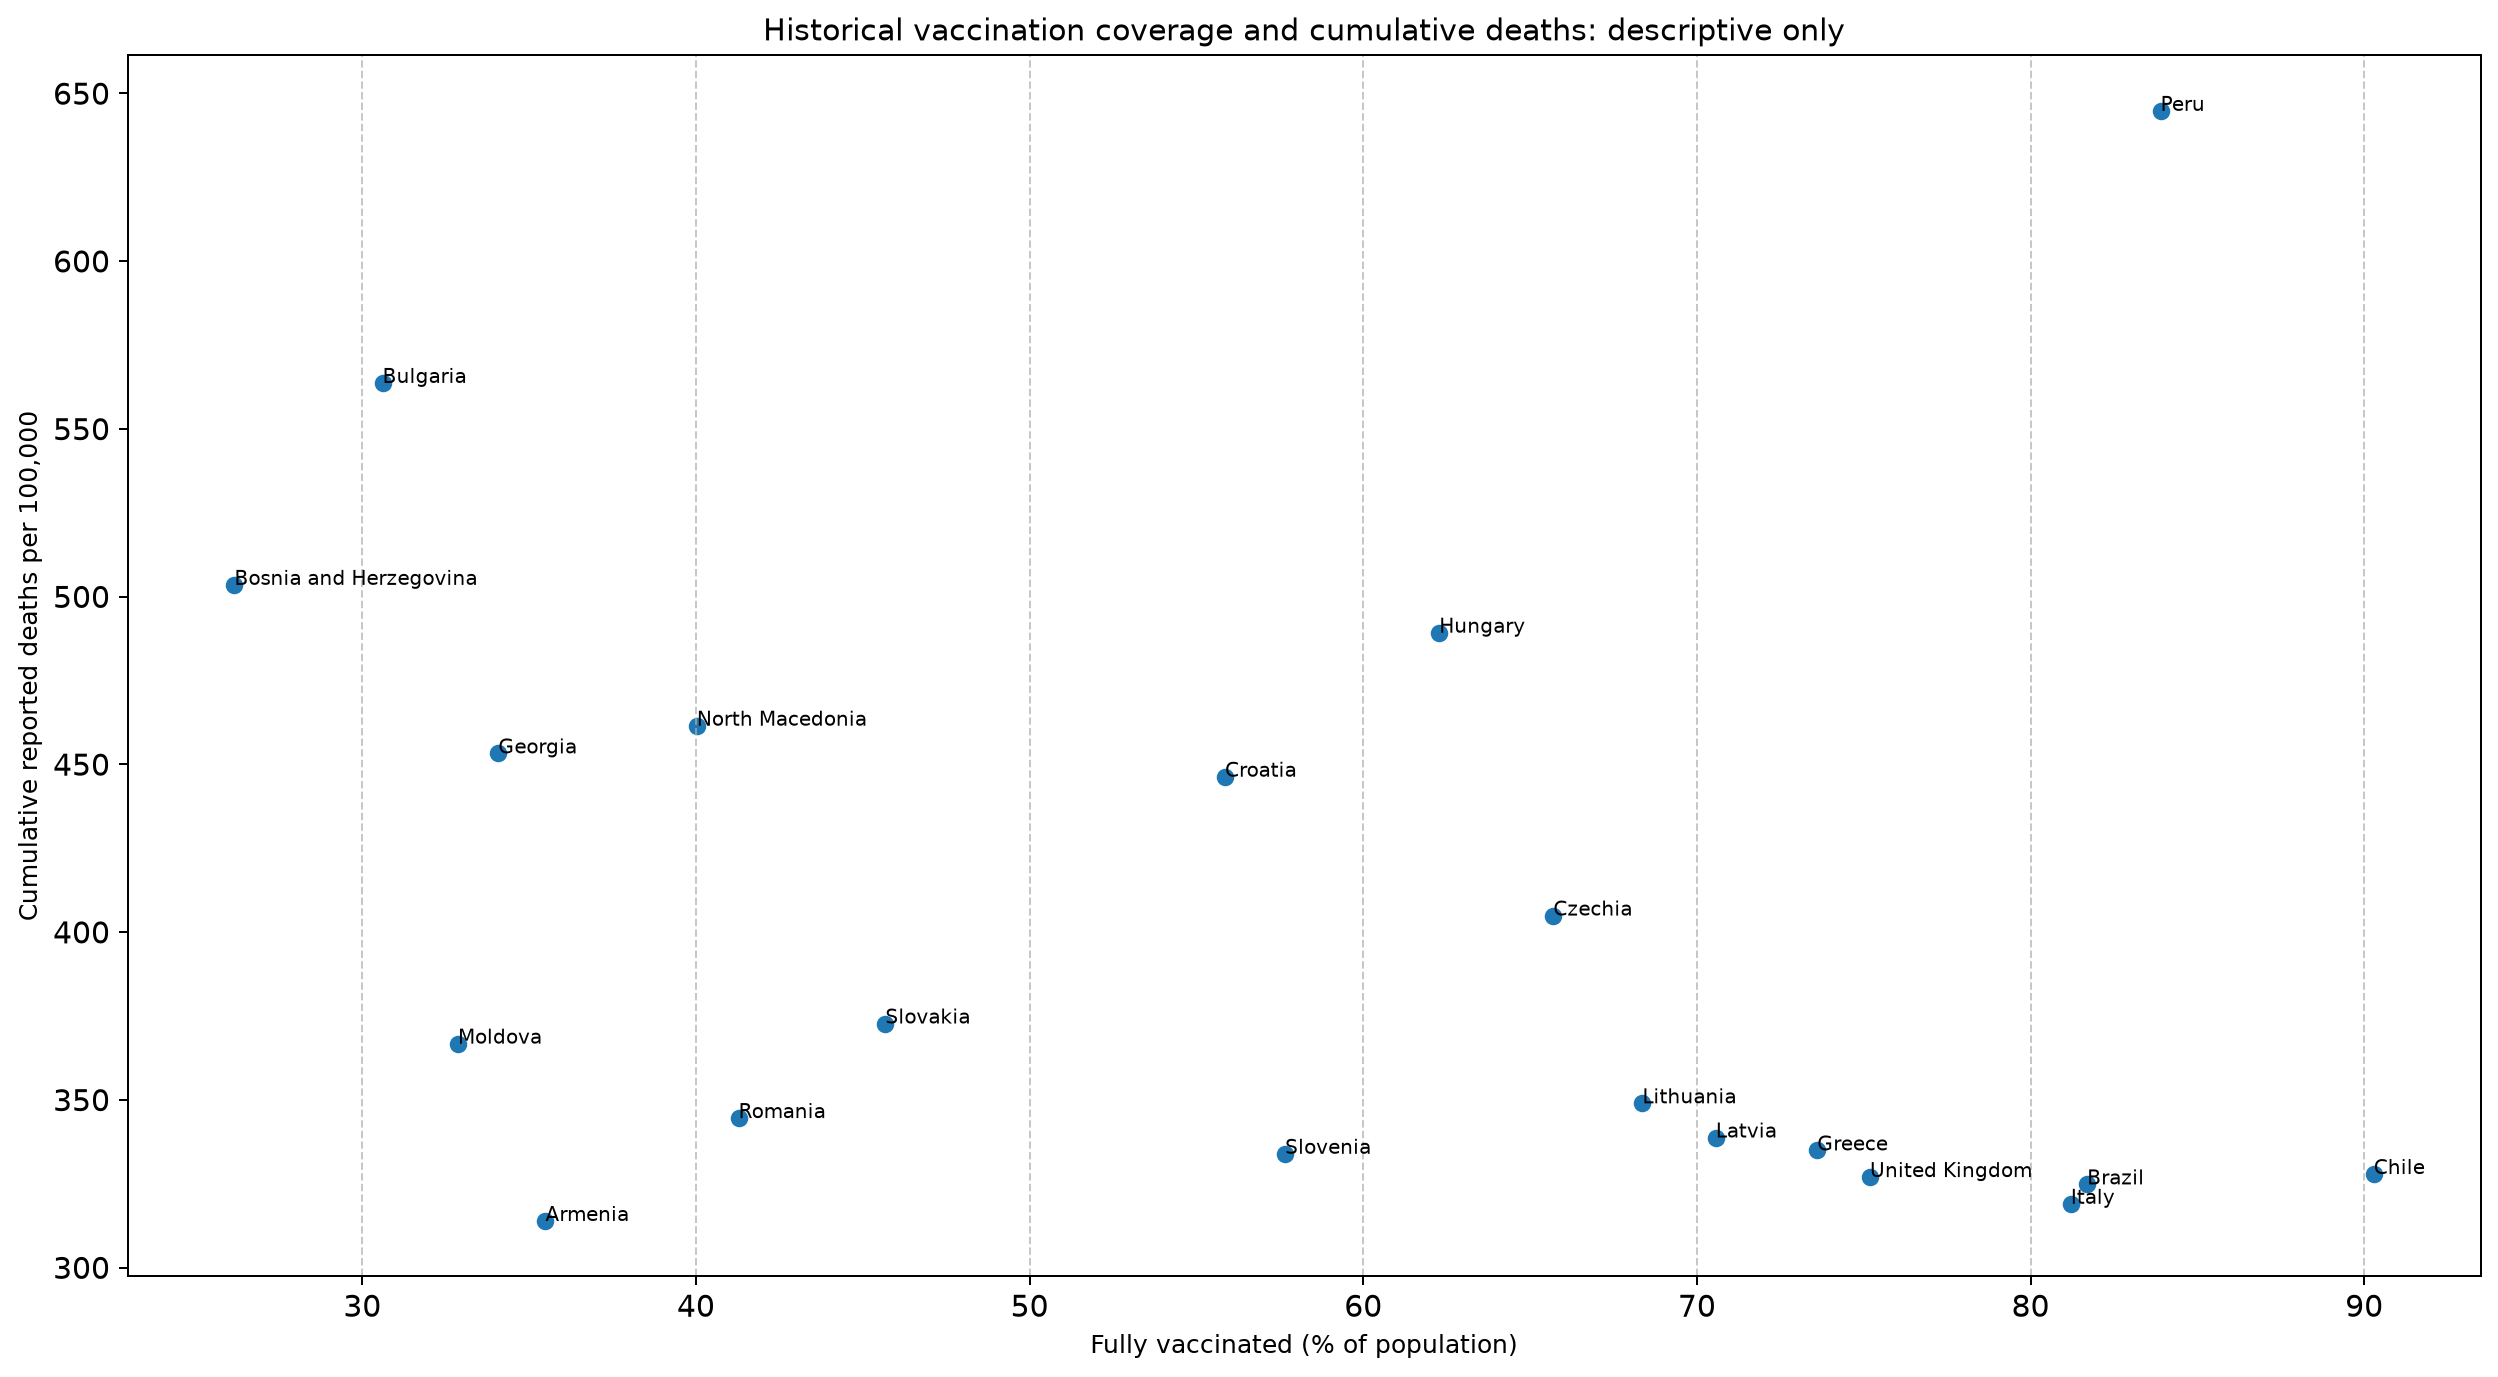
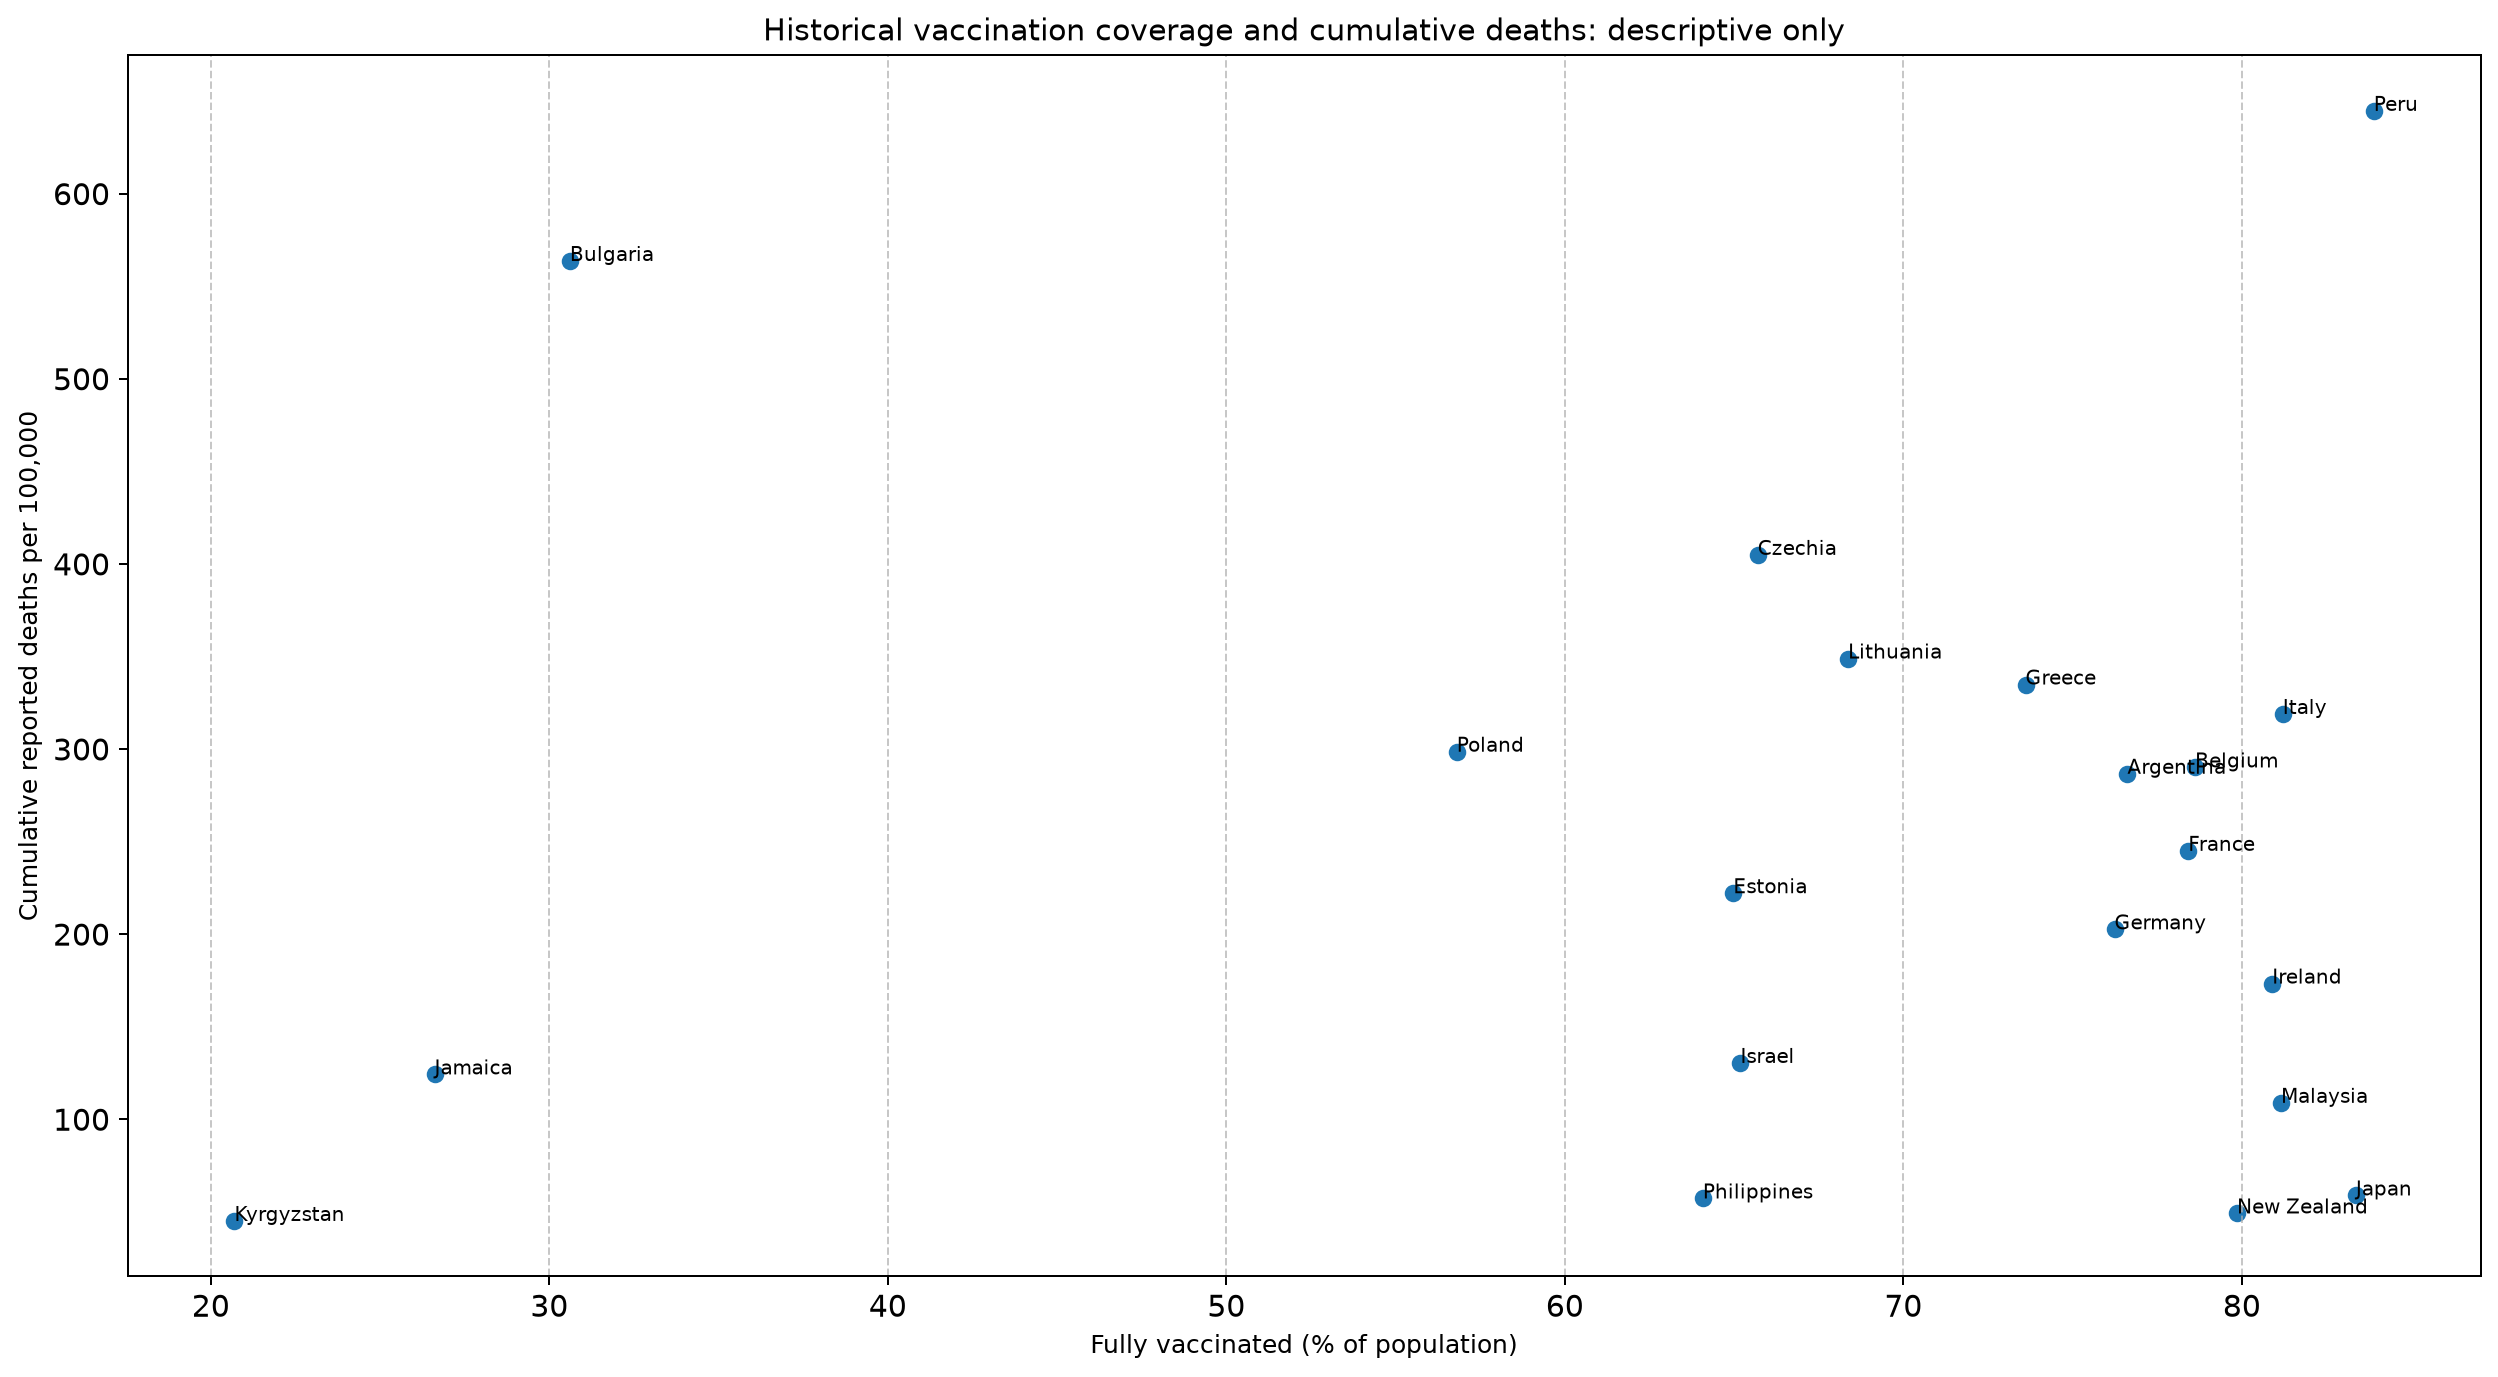
Preserve missing COVID daily observations

diff --git a/tests/test_downloads.py b/tests/test_downloads.py
@@ -5,10 +5,43 @@ import unittest
 from pathlib import Path
 from unittest.mock import Mock, patch
 
+import pandas as pd
+
 import covid_analysis
 
 
 class DownloadTests(unittest.TestCase):
+    def test_missing_daily_measurements_are_not_forward_filled(self):
+        with tempfile.TemporaryDirectory() as tmp:
+            previous = os.getcwd()
+            os.chdir(tmp)
+            try:
+                common = {'Province/State': [None], 'Country/Region': ['Example'],
+                          'Lat': [0], 'Long': [0]}
+                for name, values in [('confirmed', [10, None]),
+                                     ('deaths', [1, 2]), ('recovered', [0, 1])]:
+                    pd.DataFrame({**common, '1/1/20': [values[0]],
+                                  '1/2/20': [values[1]]}).to_csv(
+                        f'time_series_covid19_{name}_global.csv', index=False)
+                pd.DataFrame({
+                    'location': ['Example', 'Example'],
+                    'date': ['2020-01-01', '2020-01-02'],
+                    'population': [1000, None],
+                    'new_cases': [10, None],
+                    'new_deaths': [1, None],
+                    'new_vaccinations': [5, None],
+                    'stringency_index': [40, None],
+                }).to_csv('owid-covid-data.csv', index=False)
+                result = covid_analysis.load_and_merge_data().sort_values('date')
+                latest = result.iloc[-1]
+                self.assertEqual(latest['population'], 1000)
+                for column in ['confirmed', 'confirmed_per100k', 'new_cases',
+                               'new_cases_per100k', 'new_deaths',
+                               'new_vaccinations', 'stringency_index']:
+                    self.assertTrue(pd.isna(latest[column]), column)
+            finally:
+                os.chdir(previous)
+
     def test_records_hash_and_fails_on_download_error(self):
         with tempfile.TemporaryDirectory() as tmp:
             previous = os.getcwd()

diff --git a/covid_analysis.py b/covid_analysis.py
@@ -80,7 +80,7 @@ def load_and_merge_data():
             var_name='date', value_name=value_name
         )
         # Aggregate by country and date
-        df_long = df_long.groupby(['Country/Region', 'date'], as_index=False)[value_name].sum()
+        df_long = df_long.groupby(['Country/Region', 'date'], as_index=False)[value_name].sum(min_count=1)
         return df_long
 
     df_conf_long = melt_jhu(df_conf, 'confirmed')
@@ -115,11 +115,8 @@ def load_and_merge_data():
         if col in merged.columns:
             merged[f'{col}_per100k'] = merged[col] / merged['population'] * 1e5
 
-    # Handle missing values
-    merged = merged.sort_values(['location', 'date'])
-    value_columns = merged.columns.difference(['location', 'date'])
-    merged[value_columns] = merged.groupby('location')[value_columns].ffill()
-    # Keep unavailable vaccination and policy values missing rather than inventing zeroes.
+    # Keep unavailable daily cases, deaths, vaccinations, and policy values
+    # missing. Forward-filling them would manufacture observations.
 
     # Save merged dataset
     merged.to_csv('merged_covid_dataset.csv', index=False)

diff --git a/README.md b/README.md
@@ -6,7 +6,7 @@ An exploratory analysis of historical COVID-19 cases, deaths, vaccination and po
 
 `covid_analysis.py` retrieves Johns Hopkins CSSE confirmed/deaths/recovered series and Our World in Data COVID-19 data, including population, vaccination and policy fields, when files are absent. It does not ingest Oxford's separate policy CSV. These URLs refer to upstream files that can change or disappear. Each run writes `data_manifest.json` with the exact URL, SHA-256 and retrieval or verification time for every input. Archive that manifest and the corresponding inputs to reproduce a run. Review each publisher's attribution and reuse terms before redistribution.
 
-The tracked `archive (2).zip` is a legacy dataset archive; the script currently uses the named downloaded CSVs, not that archive. The charts were regenerated on 10 November 2026 with the input hashes in `data_manifest.json`. `SUMMARY.md` remains historical and is not a current quantitative result.
+The tracked `archive (2).zip` is a legacy dataset archive; the script currently uses the named downloaded CSVs, not that archive. The charts were regenerated on 10 November 2026 with the input hashes in `data_manifest.json`. `SUMMARY.md` describes interpretation limits for that historical snapshot, not current public-health conditions.
 
 ## Run
 
@@ -20,6 +20,6 @@ Run from the repository root. The script fails if a required download fails inst
 
 ## Limitations
 
-Johns Hopkins and OWID country names and coverage may differ. Data can be revised retrospectively; recovered cases have uneven availability. The scripts are descriptive and do not adjust for testing, reporting, population composition or policy confounders. The repository has no software license file; data rights belong to their respective publishers.
+Johns Hopkins and OWID country names and coverage may differ. Data can be revised retrospectively; recovered cases have uneven availability. Missing daily case, death, vaccination, and policy observations remain missing rather than being copied from earlier dates. The scripts are descriptive and do not adjust for testing, reporting, population composition or policy confounders. The repository has no software license file; data rights belong to their respective publishers.
 
 **Repository description recommendation:** “Historical COVID-19 data exploration with source hashes and explicit merge limitations.”
